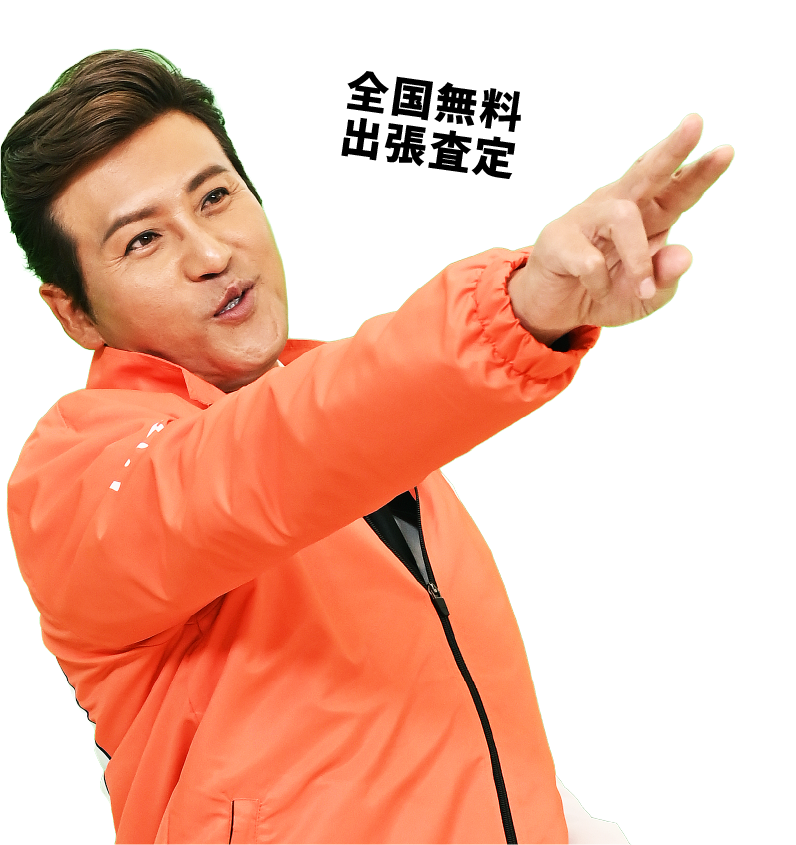
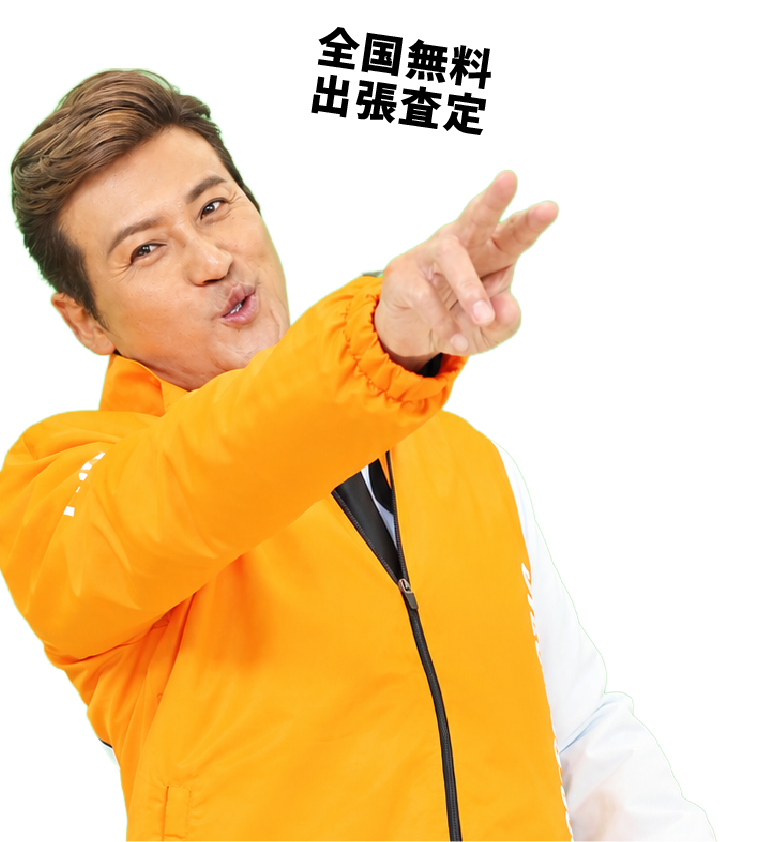
CTAを添付デザインに再構成（shinjo08）、離脱モーダルの画像差し替え、オンライン買取り導線をonline-lpに統一
- staff-cta：写真左・文字右に戻し、小見出し／大見出し／店名（二重下線）／ロゴの構成に。上の白帯は削除
- 最終CTAの写真（shinjo07@）を更新し左端まで拡大、LOCATIONSのスタッフ写真も更新
- 離脱防止モーダルの画像を LINEbanner.png に、詳細リンクは削除しボタンを online-lp へ
- LP内のオンライン買取りボタンと下部固定バーの遷移先を online-lp に変更（LINE直リンクを廃止）
- クイズ見出しを1行化、サブコピーを縮小

diff --git a/index.html b/index.html
@@ -137,7 +137,7 @@
     <div class="wrap">
       <!-- 見出しは画像2枚重ねをやめ、文字組みに変更。
            「3」だけ punch-anim を付けてスクロール時にポンと弾ませる演出は維持。 -->
-      <h2 class="quiz-lead-text">たった<span class="quiz-lead-num punch-anim">3</span>つの質問で<br>査定スタート！</h2>
+      <h2 class="quiz-lead-text">たった<span class="quiz-lead-num punch-anim">3</span>つの質問で査定スタート！</h2>
       <div class="quiz-sub-row fade-anim">
         <p class="quiz-sub">無料でお試し査定！<br>ご所有のバイクについて教えてください</p>
       </div>
@@ -296,13 +296,14 @@
        ボタンだけ「出張査定」「LINE査定」の2つ並び -->
   <section class="staff-cta">
     <div class="wrap staff-cta-inner">
-      <p class="staff-cta-kicker">ティーバイティーガレージが買取ります！</p>
       <div class="staff-cta-row">
         <div class="staff-cta-photo">
-          <img src="img/shinjo04@.png" alt="全国どこでも無料出張査定。ティーバイティーガレージのスタッフ" loading="lazy">
+          <img src="img/shinjo08.png" alt="古くてもOK・動かなくてもOK。ティーバイティーガレージのスタッフ" loading="lazy">
         </div>
         <div class="staff-cta-body">
-          <p class="staff-cta-headline">バイクを<br><span class="staff-cta-em">売る</span>のも</p>
+          <p class="staff-cta-sub">＼全国どこでも無料出張査定／</p>
+          <p class="staff-cta-headline">バイク<span class="staff-cta-small">を</span>売るのも</p>
+          <p class="staff-cta-name"><span>ティーバイティーガレージ</span></p>
           <img class="staff-cta-logo" src="img/logo.svg" alt="ティーバイティーガレージ">
         </div>
       </div>
@@ -311,7 +312,7 @@
           <svg class="icon"><use href="#ic-search"/></svg><span>無料出張査定申込み</span>
           <span class="btn-endcap"><svg class="icon icon-fill"><use href="#ic-play"/></svg></span>
         </button>
-        <button class="btn btn-line" onclick="openLineDummy('cta-maker')">
+        <button class="btn btn-line" onclick="openOnlineLp()">
           <svg class="icon"><use href="#ic-chat"/></svg><span>オンライン買取り申込み</span>
           <span class="btn-endcap"><svg class="icon icon-fill"><use href="#ic-play"/></svg></span>
         </button>
@@ -690,13 +691,14 @@
   <!-- スタッフ写真＋大見出しのCTAブロック（2箇所目） -->
   <section class="staff-cta">
     <div class="wrap staff-cta-inner">
-      <p class="staff-cta-kicker">ティーバイティーガレージが買取ります！</p>
       <div class="staff-cta-row">
         <div class="staff-cta-photo">
-          <img src="img/shinjo04@.png" alt="全国どこでも無料出張査定。ティーバイティーガレージのスタッフ" loading="lazy">
+          <img src="img/shinjo08.png" alt="古くてもOK・動かなくてもOK。ティーバイティーガレージのスタッフ" loading="lazy">
         </div>
         <div class="staff-cta-body">
-          <p class="staff-cta-headline">バイクを<br><span class="staff-cta-em">売る</span>のも</p>
+          <p class="staff-cta-sub">＼全国どこでも無料出張査定／</p>
+          <p class="staff-cta-headline">バイク<span class="staff-cta-small">を</span>売るのも</p>
+          <p class="staff-cta-name"><span>ティーバイティーガレージ</span></p>
           <img class="staff-cta-logo" src="img/logo.svg" alt="ティーバイティーガレージ">
         </div>
       </div>
@@ -705,7 +707,7 @@
           <svg class="icon"><use href="#ic-search"/></svg><span>無料出張査定申込み</span>
           <span class="btn-endcap"><svg class="icon icon-fill"><use href="#ic-play"/></svg></span>
         </button>
-        <button class="btn btn-line" onclick="openLineDummy('cta-tips')">
+        <button class="btn btn-line" onclick="openOnlineLp()">
           <svg class="icon"><use href="#ic-chat"/></svg><span>オンライン買取り申込み</span>
           <span class="btn-endcap"><svg class="icon icon-fill"><use href="#ic-play"/></svg></span>
         </button>
@@ -864,7 +866,7 @@
     <div class="wrap">
       <div class="final-cta-top">
         <!-- 背景が透過のスタッフ写真。額縁は付けず、背景にそのまま乗せる -->
-        <img class="final-cta-photo" src="img/shinjo07@.png" width="899" height="1024" alt="ティーバイティーガレージのスタッフ" loading="lazy">
+        <img class="final-cta-photo" src="img/shinjo07@.png" width="558" height="676" alt="ティーバイティーガレージのスタッフ" loading="lazy">
         <div class="final-cta-right">
           <div class="final-cta-bubble final-cta-bubble-side">
             <h2>そのバイク、眠らせておくのは<br><span class="final-cta-emphasis punch-anim">もったいない。</span></h2>
@@ -1012,7 +1014,7 @@
 
   <!-- 末尾の丸アイコンは公式サイトの下部固定バーと同じ「白丸＋再生三角」の飾り -->
   <div class="float-cta">
-    <button class="btn btn-line" onclick="openLineDummy('float')">
+    <button class="btn btn-line" onclick="openOnlineLp()">
       <svg class="icon"><use href="#ic-chat"/></svg><span>オンライン買取り</span>
       <span class="btn-endcap"><svg class="icon icon-fill"><use href="#ic-play"/></svg></span>
     </button>
@@ -1095,11 +1097,10 @@
     <div class="exit-modal-banner">
       <!-- 文言はline.jpg側に焼き込み済みで、以前は文字と画像が重なって
            見えていたため、テキストのオーバーレイは廃止して画像だけにする -->
-      <img class="exit-modal-img" src="img/line.jpg" alt="LINEオンライン査定でもっと簡単に。ビデオ通話でバイクを映すだけ、10分程度で査定できます。手順：01 LINEから査定スタート／02 通話ボタンをタップ／03 ビデオ通話でその場で査定" loading="lazy" onerror="this.parentElement.remove()">
+      <img class="exit-modal-img" src="img/LINEbanner.png" width="1024" height="1024" alt="LINEでオンライン買取り。友だち追加して必要情報と写真を送るだけで、LINEで金額をご提示します" loading="lazy" onerror="this.parentElement.remove()">
     </div>
     <div class="exit-modal-body">
-      <button class="btn btn-line" onclick="openLineDummy('exit-modal')">LINE査定</button>
-      <a class="exit-modal-detail" href="https://www.txt-garage.jp/online-lp/" target="_blank" rel="noopener">＞ 詳細はこちら</a>
+      <a class="btn btn-line" href="https://www.txt-garage.jp/online-lp/" target="_blank" rel="noopener">LINE査定</a>
     </div>
   </div>
 </div>
@@ -1257,9 +1258,10 @@ function goThanks(){
 }
 
 /* ---------- LINE公式アカウントへの誘導 ---------- */
-const LINE_URL = 'https://page.line.me/936rygvj';
-function openLineDummy(source){
-  window.open(LINE_URL, '_blank', 'noopener');
+/* オンライン買取り（写真送付）の案内ページ */
+const ONLINE_LP_URL = 'https://www.txt-garage.jp/online-lp/';
+function openOnlineLp(){
+  window.open(ONLINE_LP_URL, '_blank', 'noopener');
 }
 
 /* ---------- 「査定OK」バッジの出現演出 ----------

diff --git a/css/style.css b/css/style.css
@@ -468,8 +468,9 @@
   .quiz-lead-text{
     font-family:"Corporate Logo","Noto Sans JP",sans-serif;
     text-align:center;font-weight:900;color:var(--blue);
-    font-size:clamp(32px, 10.4vw, 44px);
+    font-size:clamp(18px, 5.6vw, 27px);
     line-height:1.35;margin:0 0 14px;
+    white-space:nowrap;
   }
   .quiz-lead-num{
     display:inline-block;color:var(--orange);
@@ -487,7 +488,7 @@
   }
   .quiz-sub{
     text-align:center;font-weight:700;color:#3c3c3c;
-    font-size:var(--fs-sm);margin:0;
+    font-size:var(--fs-xs);margin:0;line-height:1.6;
   }
   /* バッジ・サブコピーも見出しに続いて、少し遅れてふわっと現れる */
   .quiz-sub-row.fade-anim{opacity:0;transform:translateY(10px);}
@@ -935,33 +936,45 @@
   }
 
   /* ---------- スタッフ写真＋大見出しのCTAブロック ---------- */
-  .staff-cta{background:#2cadfa;padding:calc(var(--gap-block) * .6) 0 var(--gap-block);}
+  .staff-cta{background:#2cadfa;padding:var(--gap-block) 0;}
   .staff-cta-inner{position:relative;}
   .staff-cta-kicker{
     background:#fff;color:#2cadfa;font-weight:900;
-    font-size:clamp(13px, 4.3vw, 20px);
+    font-size:clamp(12px, 4vw, 19px);
     text-align:center;line-height:1.5;white-space:nowrap;
     margin:0 0 calc(var(--gap-block) * .8);
     padding:20px 8px 14px;
     box-shadow:0 3px 10px rgba(0,0,0,.12);
   }
-  /* 左：見出し＋ロゴ／右：スタッフ写真 */
-  .staff-cta-row{display:flex;flex-direction:row-reverse;align-items:flex-end;gap:4px;margin-bottom:10px;}
-  .staff-cta-photo{flex:1.3;min-width:0;margin:0 0 -18px -30px;position:relative;z-index:1;transform:translate(14px, -40px);}
+  /* 左：スタッフ写真（吹き出し入り）／右：小見出し＋大見出し＋店名＋ロゴ（参考デザイン準拠） */
+  .staff-cta-row{display:flex;align-items:center;gap:6px;margin-bottom:12px;}
+  .staff-cta-photo{flex:1.5;min-width:0;margin:0 -24px -16px -10px;position:relative;z-index:1;transform:translate(-6px, 0);}
   .staff-cta-photo img{display:block;width:100%;height:auto;}
-  .staff-cta-body{flex:1;min-width:0;text-align:center;padding-bottom:20px;position:relative;z-index:2;transform:translateX(10px);}
+  /* 文字ブロックは写真側へ少し寄せ、各行は列幅より広くとって同じ中心に揃える */
+  .staff-cta-body{flex:1.2;min-width:0;text-align:center;position:relative;z-index:2;transform:translate(-24px, 0);}
+  .staff-cta-sub{
+    color:#ffff00;font-weight:900;white-space:nowrap;
+    font-size:clamp(11px, 3.4vw, 15px);line-height:1.3;
+    margin:0 -30% 4px;letter-spacing:.04em;
+  }
   .staff-cta-headline{
     font-family:"Corporate Logo","Noto Sans JP",sans-serif;
     color:#fff;font-weight:900;line-height:1.15;
-    font-size:clamp(40px, 14.5vw, 60px);
-    margin:0 0 10px;
-    text-shadow:0 2px 8px rgba(0,0,0,.45);
-    white-space:nowrap;
-    /* 左カラムより文字が大きい分は、右（写真の上）へはみ出させる（左端は画面外に出ない） */
-    direction:ltr;
+    font-size:clamp(24px, 7vw, 37px);
+    margin:0 -45% 2px;
+    white-space:nowrap;letter-spacing:.05em;
   }
-  .staff-cta-em{color:#ffff00;}
-  .staff-cta-logo{display:block;width:100%;max-width:195px;margin:0 auto;height:auto;}
+  .staff-cta-small{font-size:.62em;}
+  .staff-cta-name{
+    display:block;
+    color:#fff;font-weight:900;white-space:nowrap;
+    font-size:clamp(12px, 3.6vw, 16px);line-height:1.3;
+    margin:0 -30% 16px;letter-spacing:.06em;
+  }
+  /* 二重下線：上に細い白1px、少し空けて下に太い黄色4px */
+  .staff-cta-name span{position:relative;display:inline-block;padding-bottom:1px;border-bottom:1px solid #fff;}
+  .staff-cta-name span::after{content:"";position:absolute;left:0;right:0;bottom:-6px;height:4px;background:#ffff00;}
+  .staff-cta-logo{display:block;width:100%;max-width:135px;margin:0 auto;height:auto;}
   .staff-cta-tel{
     display:flex;align-items:center;justify-content:center;
     margin-top:20px;color:#fff;
@@ -970,7 +983,7 @@
   .staff-cta .btn-primary{font-size:clamp(17px, 5.6vw, 22px);padding:18px 20px;margin-top:-20px;}
   /* 出張査定／LINE査定の2ボタン並び（下部固定バーと同じ見た目） */
   /* 文言が長いので横並びではなく縦に2段。どちらも1行で収まる */
-  .staff-cta-btns{display:flex;flex-direction:column;gap:18px;margin-top:-20px;position:relative;z-index:2;}
+  .staff-cta-btns{display:flex;flex-direction:column;gap:18px;margin-top:4px;position:relative;z-index:2;}
   .staff-cta .staff-cta-btns .btn{
     position:relative;width:100%;margin:0;
     padding:16px clamp(30px, 9vw, 40px) 16px 12px;
@@ -1095,8 +1108,10 @@
   .final-cta-emphasis{font-size:1.4em;color:var(--orange);}
   /* 透過PNGなので枠は付けず、背景にそのまま乗せる */
   .final-cta-photo{
-    flex:1;min-width:0;display:block;width:100%;max-width:300px;height:auto;
-    margin:0;
+    flex:1;min-width:0;display:block;width:100%;max-width:340px;height:auto;
+    /* 左端ギリギリ（枠の余白ぶん）まで広げ、少し下げる */
+    margin:0 0 0 calc(var(--gutter) * -1);
+    transform:translateY(20px);
   }
   .final-cta p{font-size:var(--fs-sm);color:#fff;margin:0 0 14px;font-weight:700;line-height:1.7;}
   .final-cta-sub{font-size:var(--fs-md);font-weight:900;margin:0;line-height:1.6;}
